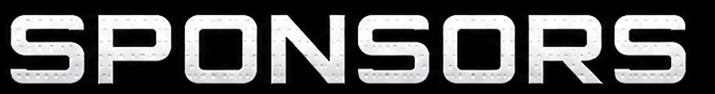
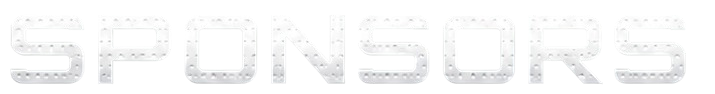
Refine sponsors and mentors section

diff --git a/src/index.css b/src/index.css
@@ -63,3 +63,30 @@ body {
         transform: translateX(-50%);
     }
 }
+
+.mentors-viewport {
+    position: relative;
+    overflow: hidden;
+
+    -webkit-mask-image: linear-gradient(
+        to right,
+        transparent,
+        black 8%,
+        black 92%,
+        transparent
+    );
+
+    mask-image: linear-gradient(
+        to right,
+        transparent,
+        black 8%,
+        black 92%,
+        transparent
+    );
+
+    -webkit-mask-repeat: no-repeat;
+    mask-repeat: no-repeat;
+
+    -webkit-mask-size: 100% 100%;
+    mask-size: 100% 100%;
+}

diff --git a/src/sections/SponsorsMentors/SponsorsMentors.jsx b/src/sections/SponsorsMentors/SponsorsMentors.jsx
@@ -18,8 +18,12 @@ export default function SponsorsMentors() {
                 bg-black
                 text-white
                 overflow-hidden
-                py-20
-                md:py-28
+                pt-16
+                pb-16
+                md:pt-32
+                md:pr-16
+                md:pl-16
+                md:pb-32
             "
         >
 
@@ -33,8 +37,9 @@ export default function SponsorsMentors() {
                     inset-0
                     w-full
                     h-full
-
+                    -top-4
                     object-cover
+                    object-[center_20%]
 
                     opacity-70
 
@@ -52,16 +57,16 @@ export default function SponsorsMentors() {
                 className="
                     absolute
 
-                    top-4
+                    -top-4
                     left-2
 
                     w-28
 
                     md:w-36
-                    lg:w-44
+                    lg:w-52
 
-                    md:top-6
-                    lg:top-8
+                    md:-top-4
+                    lg:-top-4
 
                     md:left-4
                     lg:left-6
@@ -96,7 +101,7 @@ export default function SponsorsMentors() {
 
             {/* ---------------- Main Content ---------------- */}
 
-            <div className="relative z-20 max-w-6xl mx-auto px-4 sm:px-6 lg:px-8">
+            <div className="relative z-20 max-w-420 mx-auto px-4 sm:px-6 lg:px-8">
 
                 {/* Sponsors */}
 
@@ -104,7 +109,7 @@ export default function SponsorsMentors() {
                     image={sponsorsHeading}
                     alt="Sponsors"
                     className="mb-10"
-                    imageClassName="max-w-[300px] md:max-w-xl"
+                    imageClassName="max-w-[300px] md:max-w-3xl"
                 />
 
                 <SponsorsCarousel />
@@ -115,7 +120,7 @@ export default function SponsorsMentors() {
                     image={mentorsHeading}
                     alt="Mentors & Judges"
                     className="mt-20 mb-10"
-                    imageClassName="max-w-[360px] md:max-w-2xl"
+                    imageClassName="max-w-[360px] md:max-w-5xl"
                 />
 
                 <MentorsSection />

diff --git a/src/sections/SponsorsMentors/MentorsCarousel.jsx b/src/sections/SponsorsMentors/MentorsCarousel.jsx
@@ -3,15 +3,16 @@ import { people } from "./data";
 
 export default function MentorsCarousel() {
   return (
-    <div className="overflow-hidden py-8">
-      
-      <div className="mentors-track gap-10">
-        {[...people, ...people].map((person, index) => (
-          <PersonCard
-            key={`${person.id}-${index}`}
-            person={person}
-          />
-        ))}
+    <div className="py-8">
+      <div className="mentors-viewport">
+        <div className="mentors-track gap-10">
+          {[...people, ...people].map((person, index) => (
+            <PersonCard
+              key={`${person.id}-${index}`}
+              person={person}
+            />
+          ))}
+        </div>
       </div>
     </div>
   );